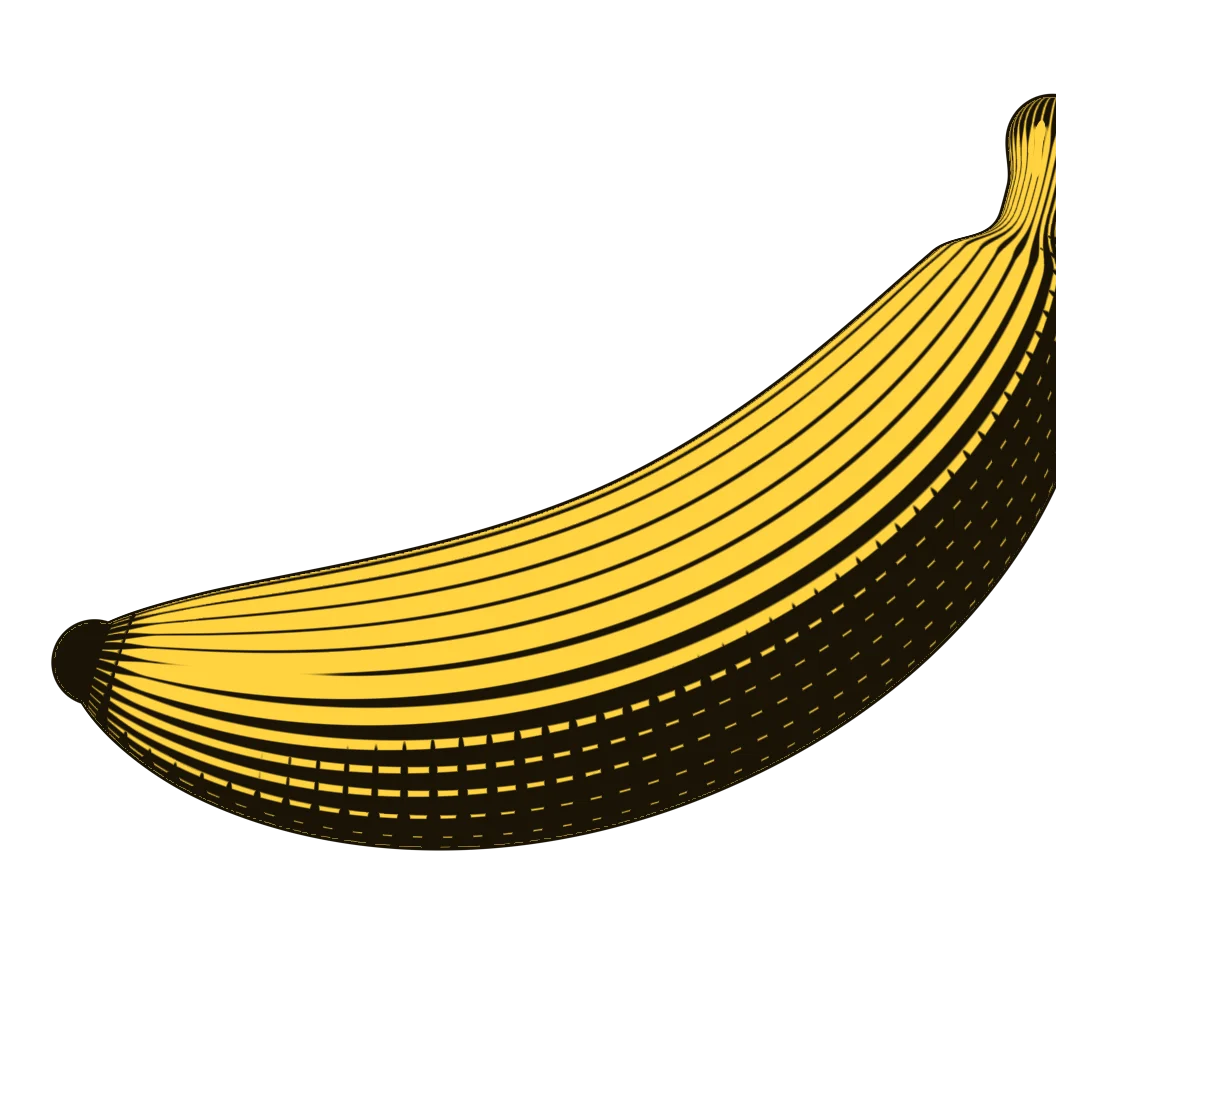
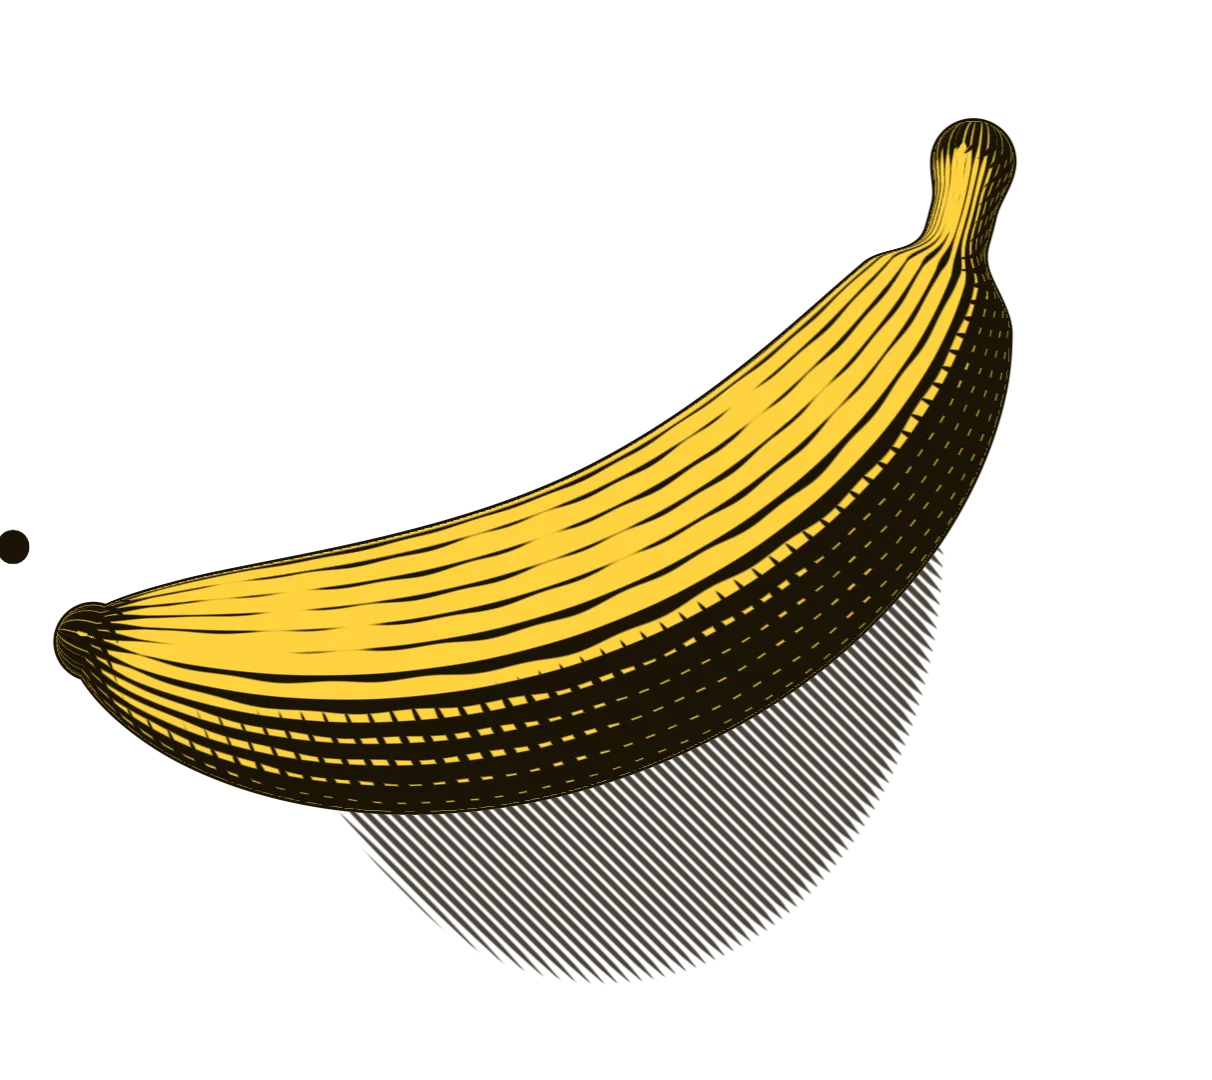
Hero: ground the engraving and show the real products in the first screen
Blind critics said the fruit was clipped at the content edge, floated over
the oval, and the marks strip was filler that repeated the name. The fruit
now fits whole, casts a hatched shadow on the oval, the cross-hatch follows
the form, and the fold carries crops of the three live products.

Changed region(s): [[0.0305, 0.0611, 0.8548, 0.9167], [0.0, 0.4889, 0.0305, 0.5194]]

diff --git a/index.html b/index.html
@@ -177,53 +177,53 @@
   .hero{
     display: grid;
     grid-template-columns: minmax(0, 7fr) minmax(0, 5fr);
-    grid-template-rows: auto 1fr auto;
+    grid-template-rows: 1fr auto;
     column-gap: 64px;
     align-items: center;
     min-height: calc(100svh - 96px);
     max-height: 900px;
-    overflow-x: clip;
   }
-  /* Running marks and the index: small caps between double rules, the way a note carries its series */
-  .marks, .index{
+  /* The index closes the first screen with the real products, between double rules */
+  .index{
     grid-column: 1 / -1;
     display: grid;
     grid-template-columns: repeat(3, minmax(0, 1fr));
     border-top: 3px double var(--line-2);
-    font-size: 12px;
-    font-weight: 500;
-    letter-spacing: 0.14em;
-    text-transform: uppercase;
-    color: var(--ink-3);
+    border-bottom: 3px double var(--line-2);
   }
-  .marks{ border-bottom: 1px solid var(--line); }
-  .marks span{ padding: 12px 0; }
-  .marks span:nth-child(2){ text-align: center; }
-  .marks span:nth-child(3){ text-align: right; }
-  .index{ border-bottom: 3px double var(--line-2); }
   .index a{
     display: grid;
-    grid-template-columns: auto 1fr auto;
-    align-items: baseline;
-    gap: 16px;
-    min-height: 72px;
+    grid-template-columns: 144px 1fr;
+    align-items: center;
+    gap: 20px;
     padding: 20px 24px;
     text-decoration: none;
-    transition: background-color 150ms var(--ease);
   }
   .index a:first-child{ padding-left: 0; }
   .index a:last-child{ padding-right: 0; }
   .index a + a{ border-left: 1px solid var(--line); }
+  .index picture{
+    display: block;
+    height: 88px;
+    border-radius: 8px;
+    overflow: hidden;
+    background: #FFFDF1;
+    box-shadow: inset 0 0 0 1px var(--line);
+  }
+  .index img{ display: block; width: 100%; height: 100%; object-fit: cover; }
   .index b{
+    display: block;
     font-family: var(--serif);
     font-variation-settings: "opsz" 144;
     font-size: 24px;
+    line-height: 1.2;
     font-weight: 600;
     letter-spacing: -0.01em;
-    text-transform: none;
-    color: var(--ink);
   }
+  .index a > span{ display: block; }
+  .index span span{ display: block; margin-top: 4px; font-size: 14px; color: var(--ink-3); }
   .index a:hover b{ text-decoration: underline; text-decoration-color: var(--banana); text-decoration-thickness: 2px; text-underline-offset: 5px; }
+  .index a:focus-visible{ border-radius: 0; outline-offset: -2px; }
   .hero h1{
     position: relative;
     z-index: 1;
@@ -246,8 +246,8 @@
     position: relative;
     justify-self: end;
     width: 100%;
-    max-width: 448px;
-    margin: 40px 0;
+    max-width: 432px;
+    margin: 32px 40px 32px 0;
     aspect-ratio: 4 / 5;
     color: var(--ink);
   }
@@ -260,7 +260,6 @@
   }
   /* The fruit is larger than its frame: it crosses the lace on both sides and reaches the headline */
   .engraving img, .engraving canvas{ left: -20%; width: 140%; z-index: 2; }
-  .engraving text{ font-size: 11px; font-weight: 600; letter-spacing: 0.34em; text-transform: uppercase; fill: currentColor; opacity: 0.72; }
   .sky path, .band path, .band ellipse{ fill: none; stroke: currentColor; vector-effect: non-scaling-stroke; }
   .sky path{ stroke-width: 0.75px; opacity: 0.34; }
   .band path{ stroke-width: 0.75px; opacity: 0.5; }
@@ -426,7 +425,7 @@
   .shot-artifact{ background: #F5F2EA; }
   .shot-artifact img{ object-fit: contain; object-position: left center; padding: 32px; }
   @media (prefers-color-scheme: dark){
-    .shot-daystart{ background: #15110D; }
+    .shot-daystart, .index picture{ background: #15110D; }
     .shot-ballot{ background: #131313; }
     .shot-artifact{ background: #111111; }
     .shot-ballot img{ mix-blend-mode: normal; }
@@ -530,7 +529,7 @@
     .hero{ grid-template-columns: 1fr; grid-template-rows: none; min-height: 0; max-height: none; }
     .pitch{ padding-top: 48px; }
     .engraving{ justify-self: center; max-width: 400px; margin: 48px 0; }
-    .engraving img, .engraving canvas{ left: -9%; width: 118%; }
+    .engraving img, .engraving canvas{ left: -2%; width: 104%; }
     .hero h1{ font-size: 72px; white-space: normal; }
     .grid{ grid-template-columns: 1fr; }
     .steps{ grid-template-columns: 1fr; }
@@ -559,10 +558,9 @@
     .pitch{ padding-top: 32px; }
     .engraving{ margin: 32px 0; }
     .hero .lede{ margin-top: 24px; }
-    .marks{ grid-template-columns: 1fr 1fr; }
-    .marks span:nth-child(2){ display: none; }
     .index{ grid-template-columns: 1fr; }
-    .index a, .index a:first-child, .index a:last-child{ padding: 16px 0; min-height: 56px; }
+    .index a, .index a:first-child, .index a:last-child{ padding: 16px 0; grid-template-columns: 112px 1fr; }
+    .index picture{ height: 72px; }
     .index a + a{ border-left: 0; border-top: 1px solid var(--line); }
     .hero h1{ font-size: 52px; }
     .lede{ font-size: 16px; }
@@ -589,7 +587,7 @@
   }
 
   @media (prefers-reduced-motion: reduce){
-    .u, .btn, .ext, .index a{ transition: none; }
+    .u, .btn, .ext{ transition: none; }
     .btn:active{ transform: none; }
   }
 </style>
@@ -610,7 +608,6 @@
 
     <main>
       <section class="hero">
-        <p class="marks"><span>Series 2026</span><span>Banana Intelligence, LLC</span><span>SF East Bay</span></p>
         <div class="pitch">
           <h1><span>Excellence.</span> <span>For everyone.</span></h1>
           <p class="lede">A morning briefing, a personal ballot, and the day’s news in one piece, from Nate Peace’s studio.</p>
@@ -625,21 +622,17 @@
               <clipPath id="oval"><ellipse cx="240" cy="300" rx="190" ry="250"/></clipPath>
               <radialGradient id="halo" cx="50%" cy="50%" r="50%"><stop offset="0.25" stop-color="#fff" stop-opacity="0.15"/><stop offset="1" stop-color="#fff"/></radialGradient>
               <mask id="vignette"><rect width="480" height="600" fill="url(#halo)"/></mask>
-              <path id="arc-top" d="M 66 300 A 174 234 0 0 1 414 300"/>
-              <path id="arc-low" d="M 50 300 A 190 250 0 0 0 430 300"/>
             </defs>
             <g class="sky" clip-path="url(#oval)" mask="url(#vignette)"></g>
             <g class="band"><ellipse cx="240" cy="300" rx="190" ry="250"/><ellipse cx="240" cy="300" rx="224" ry="284"/></g>
-            <text text-anchor="middle"><textPath href="#arc-top" startOffset="50%">Banana Intelligence</textPath></text>
-            <text text-anchor="middle" dy="-9"><textPath href="#arc-low" startOffset="50%">Excellence · For everyone</textPath></text>
           </svg>
-          <img src="/media/banana-engraving.webp" width="1254" height="1120" alt="" decoding="async" />
+          <img src="/media/banana-engraving.webp" width="1212" height="1080" alt="" decoding="async" />
           <canvas></canvas>
         </div>
         <nav class="index" aria-label="Products">
-          <a href="#daystart"><span>No. 1</span><b>DayStart</b><span>iPhone</span></a>
-          <a href="#plain-ballot"><span>No. 2</span><b>Plain Ballot</b><span>Web</span></a>
-          <a href="#artifact-news"><span>No. 3</span><b>Artifact News</b><span>Web</span></a>
+          <a href="#daystart"><picture><source srcset="/media/daystart-ready-dark.webp" media="(prefers-color-scheme: dark)" /><img src="/media/daystart-ready-light.webp" alt="" style="object-position:50% 60%" loading="lazy" decoding="async" /></picture><span><b>DayStart</b><span>My personal briefing</span></span></a>
+          <a href="#plain-ballot"><picture><source srcset="/media/plain-ballot-row-dark.webp" media="(prefers-color-scheme: dark)" /><img src="/media/plain-ballot-row-light.webp" alt="" style="object-position:0 40%" loading="lazy" decoding="async" /></picture><span><b>Plain Ballot</b><span>My personal ballot</span></span></a>
+          <a href="#artifact-news"><picture><source srcset="/media/artifact-news-headline-dark.webp" media="(prefers-color-scheme: dark)" /><img src="/media/artifact-news-headline-light.webp" alt="" style="object-position:0 50%" loading="lazy" decoding="async" /></picture><span><b>Artifact News</b><span>The day’s news, in one piece</span></span></a>
         </nav>
       </section>
 
@@ -776,7 +769,7 @@
   var FS = [
     '#extension GL_OES_standard_derivatives : enable',
     'precision highp float;',
-    'uniform vec2 uRes; uniform vec3 uL; uniform float uInk; uniform float uYaw;',
+    'uniform vec2 uRes; uniform vec3 uL; uniform float uInk; uniform float uYaw; uniform float uWide;',
     'const float A = 0.80;',
     'float map(vec3 p, out float u, out float phi){',
     '  vec2 q = vec2(p.x, p.y - 0.86);',
@@ -799,8 +792,8 @@
     '  return (1.0 - smoothstep(w - a, w + a, f)) * smoothstep(0.03, 0.12, w);',
     '}',
     'void main(){',
-    '  float px = 1.5 / uRes.y;',
-    '  vec2 uv = (gl_FragCoord.xy - 0.5 * uRes) * px;',
+    '  float px = 1.6 / uRes.y;',
+    '  vec2 uv = (gl_FragCoord.xy - 0.5 * uRes) * px + vec2(0.05, 0.0);',
     '  mat3 M = rz(-0.45) * rx(0.42) * ry(uYaw);',
     '  vec3 ro = M * vec3(uv, 3.0), rd = M * vec3(0., 0., -1.), L = normalize(M * uL);',
     '  float t = 1.8, u, phi, d, minD = 1.0; bool hit = false; vec3 p;',
@@ -812,6 +805,12 @@
     '  vec3 ink = vec3(0.102, 0.078, 0.027), banana = vec3(1.0, 0.824, 0.247);',
     '  if (!hit){',
     '    float a = (1.0 - smoothstep(0.004, 0.004 + px * 1.5, minD)) * uInk;',
+    '    // Cast shadow on the oval: the same cut, laid at a slant, swelling where the fruit blocks the light',
+    '    vec2 b = (gl_FragCoord.xy - 0.5 * uRes) / vec2(uRes.x / uWide, uRes.y);',
+    '    float inside = 1.0 - smoothstep(0.94, 1.0, length(b / vec2(0.396, 0.417)));',
+    '    float sd = map(M * vec3(uv + uL.xy * (0.3 / uL.z), 0.0), u, phi);',
+    '    float sh = (1.0 - smoothstep(-0.06, 0.2, sd)) * inside * uInk;',
+    '    a = max(a, line((uv.x + uv.y) / 0.02, sh * 0.62) * 0.8);',
     '    gl_FragColor = vec4(ink * a, a); return;',
     '  }',
     '  float e = 0.002, u2, p2;',
@@ -824,8 +823,9 @@
     '  lum *= 1.0 - 0.85 * smoothstep(-0.90, -0.99, u) - 0.7 * smoothstep(1.15, 1.2, u);',
     '  float spec = pow(max(dot(reflect(-L, n), -rd), 0.0), 18.0);',
     '  float dark = (1.0 - lum) * uInk;',
-    '  float i1 = line(phi / 6.2832 * 30.0, clamp((0.13 * uInk + 0.9 * dark) * (1.0 - smoothstep(0.25, 0.7, spec)), 0.0, 0.94));',
-    '  float i2 = line(u * A / 0.034, clamp((dark - 0.5) * 1.5, 0.0, 0.8));',
+    '  float wob = 0.06 * sin(u * 11.0 + phi * 3.0) + 0.04 * sin(u * 37.0 - phi * 5.0);',
+    '  float i1 = line(phi / 6.2832 * 30.0 + wob * 0.6, clamp((0.12 * uInk + 0.9 * dark + wob) * (1.0 - smoothstep(0.25, 0.7, spec)), 0.0, 0.94));',
+    '  float i2 = line(u * A / 0.03 + phi * 2.2, clamp((dark - 0.42) * 1.25, 0.0, 0.7));',
     '  gl_FragColor = vec4(mix(banana, ink, max(i1, i2)), 1.0);',
     '}'
   ].join('\n');
@@ -838,7 +838,7 @@
   gl.bindBuffer(gl.ARRAY_BUFFER, gl.createBuffer());
   gl.bufferData(gl.ARRAY_BUFFER, new Float32Array([-1, -1, 3, -1, -1, 3]), gl.STATIC_DRAW);
   gl.enableVertexAttribArray(0); gl.vertexAttribPointer(0, 2, gl.FLOAT, false, 0, 0);
-  var U = {}; ['uRes', 'uL', 'uInk', 'uYaw'].forEach(function(k){ U[k] = gl.getUniformLocation(pr, k); });
+  var U = {}; ['uRes', 'uL', 'uInk', 'uYaw', 'uWide'].forEach(function(k){ U[k] = gl.getUniformLocation(pr, k); });
 
   var still = matchMedia('(prefers-reduced-motion: reduce)').matches;
   var rest = { x: -0.55, y: 0.6 }, cur = { x: rest.x, y: rest.y }, aim = { x: rest.x, y: rest.y };
@@ -853,6 +853,7 @@
     gl.uniform3f(U.uL, cur.x / len, cur.y / len, z / len);
     gl.uniform1f(U.uInk, ink);
     gl.uniform1f(U.uYaw, cur.x * 0.12);
+    gl.uniform1f(U.uWide, r.width / note.getBoundingClientRect().width);
     gl.drawArrays(gl.TRIANGLES, 0, 3);
     note.classList.add('live');
   }
